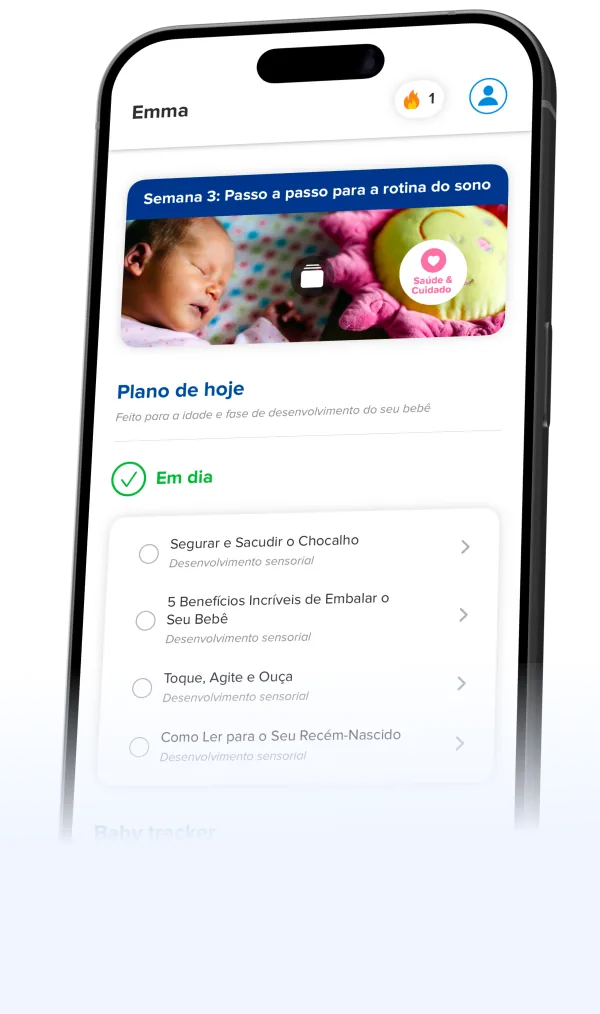
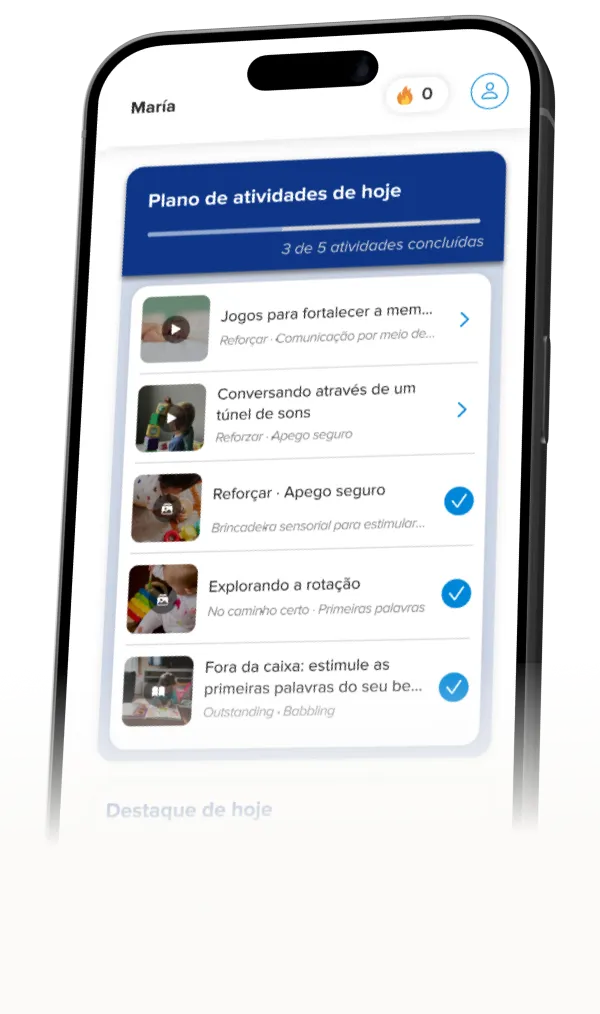
Landing: new hero phone mockups (EN/ES/PT) + hide fixed bubbles on mobile
- Replace TAP/NEW hero images with updated 'Today's activity plan' mockups
- .k-bubs decorative bubbles are position:fixed and looked frozen while
  scrolling on mobile — hidden at <=768px across all pages

diff --git a/styles.css b/styles.css
@@ -3741,3 +3741,8 @@ body.amodal-lock { overflow: hidden; }
 .k-bubs .b3 { width: 240px; height: 240px; background: #087BF3; opacity: .07; bottom: -120px; left: -80px; }
 .k-bubs .b4 { width: 60px; height: 60px; background: #32C99A; opacity: .16; top: 90px; left: 140px; }
 .k-bubs .b5 { width: 120px; height: 120px; background: #913FA3; opacity: .06; bottom: 180px; right: 60px; }
+
+/* En mobile las burbujas fixed se ven "congeladas" al hacer scroll — se ocultan */
+@media (max-width: 768px) {
+    .k-bubs { display: none; }
+}
